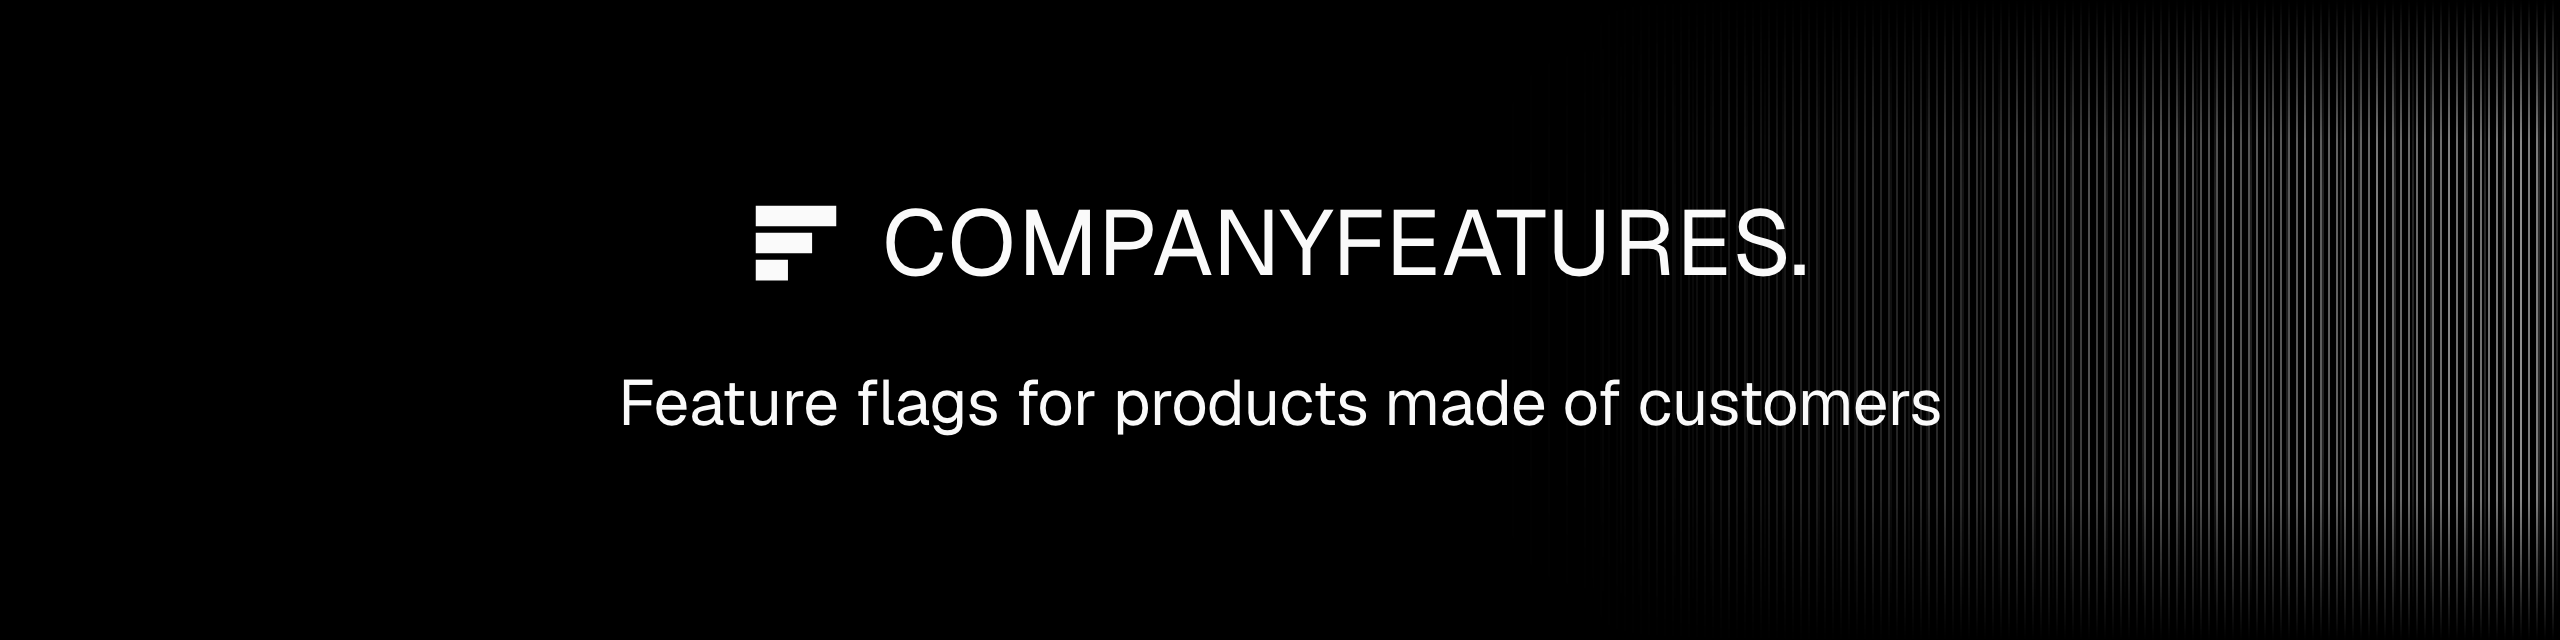
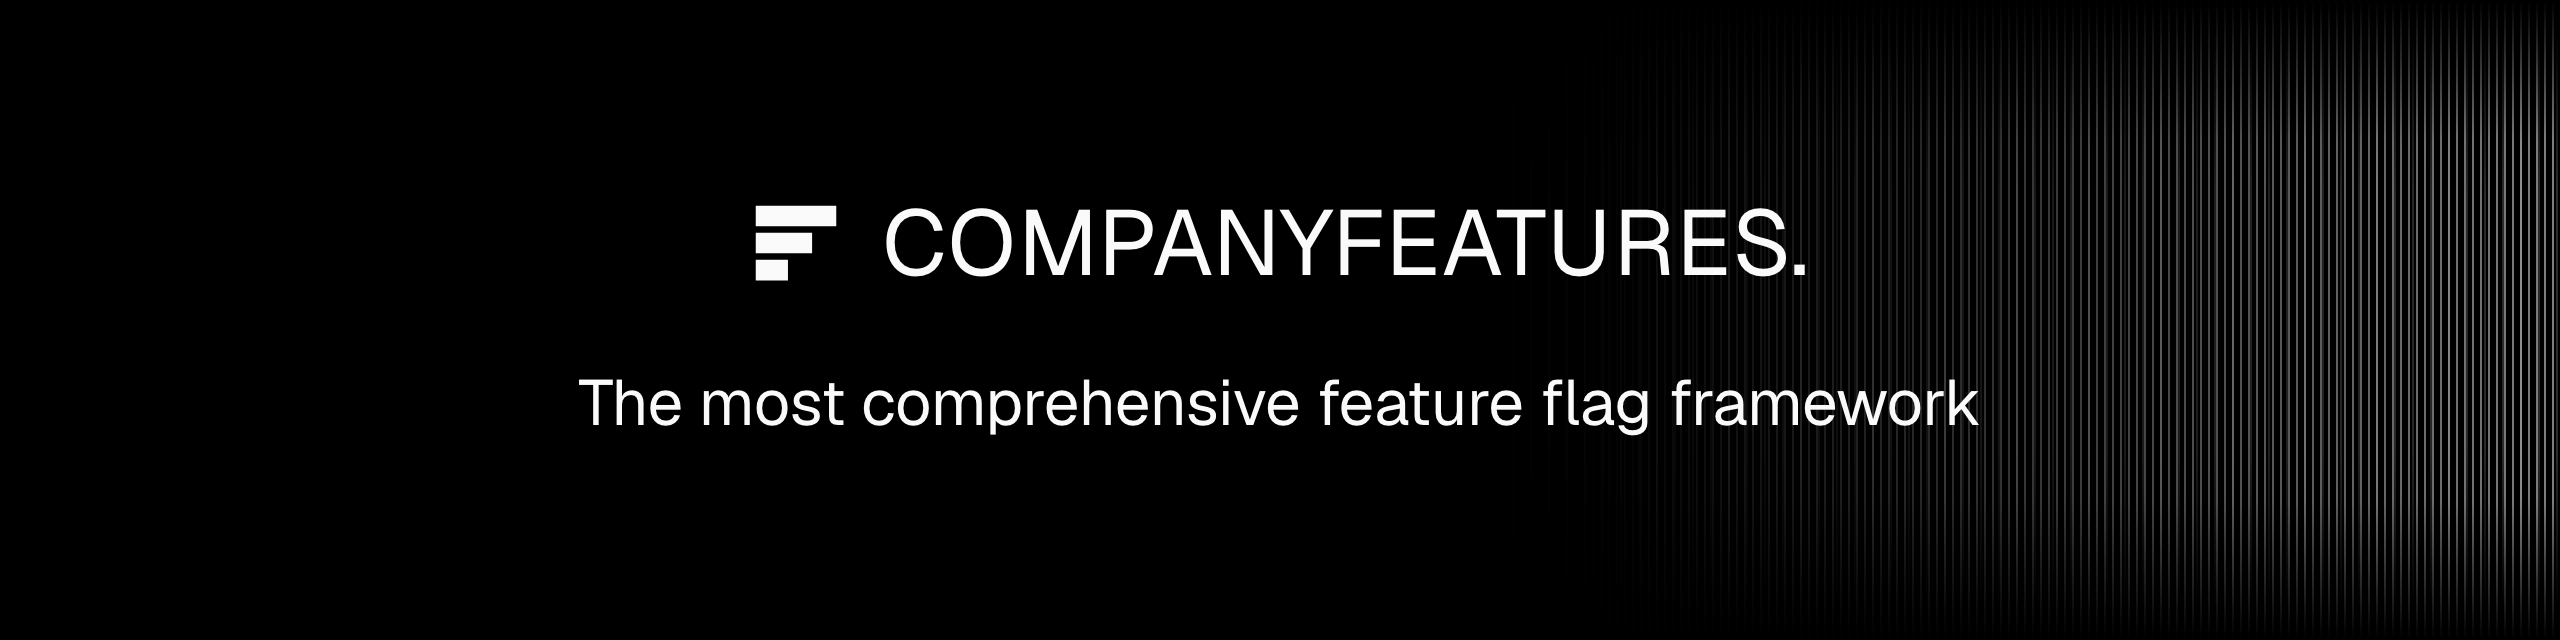
Slogan: "The most comprehensive feature flag framework"

Changed region(s): [[0.2188, 0.5938, 0.7812, 0.6875]]

diff --git a/docs/.vitepress/theme/Landing.vue b/docs/.vitepress/theme/Landing.vue
@@ -114,7 +114,7 @@ const runIt = [
       </div>
       <div class="hero-body">
         <a class="pill" :href="withBase('/guide/introduction')"><span class="tri">▲</span> Open source <b>| MIT licensed, self-hosted</b> <span>→</span></a>
-        <h1>Feature flags for products made of customers</h1>
+        <h1>The most comprehensive feature flag framework</h1>
         <div class="actions">
           <a class="btn primary" :href="withBase('/guide/quickstart')">Get Started</a>
           <a class="btn ghost" :href="repo">GitHub<i class="corner tl" /><i class="corner br" /></a>
@@ -131,8 +131,8 @@ const runIt = [
       <section>
         <h2 class="label"><span>README</span></h2>
         <p class="lead">
-          Config that follows <b>your business</b>: served per customer, brand, store or any dimension you define,
-          read with <b>OpenFeature</b>, and run on <b>your own servers</b>, one Node.js server and Postgres.
+          Everything feature flags need in <b>one server</b>: rules and releases, reviewed changes and history, settings
+          per any dimension you define, read with <b>OpenFeature</b>, and run on <b>your own servers</b>.
         </p>
         <div class="code">
           <div class="tabs" role="tablist">

diff --git a/docs/.vitepress/config.ts b/docs/.vitepress/config.ts
@@ -4,7 +4,7 @@ const repo = 'https://github.com/dvir-daniel/companyfeatures';
 
 export default defineConfig({
   title: 'CompanyFeatures',
-  description: 'Open-source feature flags and remote config, served per customer, brand or any dimension you define, from files a CDN caches.',
+  description: 'The most comprehensive feature flag framework: open source, self-hosted, and read with OpenFeature.',
   base: process.env.DOCS_BASE || '/',
   cleanUrls: true,
   appearance: true,

diff --git a/README.md b/README.md
@@ -2,7 +2,7 @@
   <picture>
     <source srcset=".github/assets/banner-dark.png" media="(prefers-color-scheme: dark)">
     <source srcset=".github/assets/banner-light.png" media="(prefers-color-scheme: light)">
-    <img src=".github/assets/banner-light.png" alt="CompanyFeatures: feature flags for products made of customers">
+    <img src=".github/assets/banner-light.png" alt="CompanyFeatures: the most comprehensive feature flag framework">
   </picture>
 </p>
 
@@ -14,7 +14,7 @@
 </p>
 
 <p align="center">
-  Open-source feature flags and remote config for products made of customers.
+  The most comprehensive feature flag framework: open source, self-hosted, and read with OpenFeature.
   <br>
   <a href="https://dvir-daniel.github.io/companyfeatures/"><strong>Learn more »</strong></a>
   <br>
@@ -30,9 +30,9 @@
 
 ## About the project
 
-CompanyFeatures serves feature flags and remote config per customer, brand, store or any dimension you define. Apps
-and backends read them with OpenFeature's own providers, and you run it yourself: one Node.js server, a web console,
-and Postgres.
+CompanyFeatures is everything feature flags and remote config need, in one server you run yourself: rules and %
+rollouts, releases, reviewed changes and a full history, settings for any part of your product, and OpenFeature for
+every app and backend.
 
 <p align="center">
   <img src=".github/assets/console.png" alt="The console: a release flag with an override, settings for one company, and a rule for 10% of devices">
@@ -40,22 +40,21 @@ and Postgres.
 
 ### Why CompanyFeatures?
 
-Most flag tools think in users and segments. If you sell to businesses, your config has a shape of its own: each
-customer needs its own API address, limits or branding; a company's brands should follow it unless they say
-otherwise; and some rules must hold for everyone, whatever a customer's settings say. CompanyFeatures is built around
-that shape.
+Feature flags start simple and grow. Some rules must hold for everyone, whatever else is set. Parts of your product
+need settings of their own. Production changes need a second pair of eyes and a way back. Every app and backend should
+get the same answer. CompanyFeatures covers all of it in one place, and your code reads it through OpenFeature.
 
-- **Your own dimensions.** Serve config per `customer`, per `company` › `brand`, per `region` › `chain` › `store`.
-  You name the levels, up to four; nothing in the product says "tenant".
-- **Settings per entity, rules for everyone.** Any customer, brand or store can have settings of its own on any flag,
+- **Your own dimensions.** Serve config per `region` › `store`, per `team`, per `customer` › `brand`, or whatever
+  your product is made of. You name the levels, up to four.
+- **Settings per entity, rules for everyone.** Any region, store or customer can have settings of its own on any flag,
   inherited down the chain. Locked rules apply to everyone, always. The console traces every answer step by step.
 - **OpenFeature, no SDK of ours.** Apps use OpenFeature's own OFREP providers (web, Android, iOS); backends use OFREP
   or flagd JSON, evaluated in-process. Your flag-reading code stays standard.
 - **Nothing private reaches a device.** An app asks as its own entity, with a token it can't change, and gets its own
-  answers only: no rules, no customer lists, no one else's values.
+  answers only: no rules, no lists of entities, no one else's values.
 - **Reviewed changes.** Production can require an approval for every change, with scheduling, break-glass for on
   call, an append-only history, restore, and side-by-side compare.
-- **Releases and version releases.** Roll a feature out to a few customers, then 1% → 5% → 25% → 50% of devices,
+- **Releases and version releases.** Give early access to a few, then 1% → 5% → 25% → 50% of devices,
   then everyone, then clean it up; or move devices from version 1.0.0 to 1.0.1 the same way, with rollback.
 - **Your sign-in.** Email and password, Google, GitHub or Microsoft, and single sign-on with SAML or OIDC, through
   [Better Auth](https://www.better-auth.com).

diff --git a/docs/guide/introduction.md b/docs/guide/introduction.md
@@ -1,19 +1,22 @@
 # Introduction
 
-CompanyFeatures is an open-source service for **feature flags and remote config** in products that serve many
-business customers. It decides what every app and backend gets, per customer (or per company and its brands, per
-store, whatever your business is made of), and hands each app a small file of values that a CDN caches.
+CompanyFeatures is the most comprehensive open-source framework for **feature flags and remote config**. It decides
+what every app and backend gets: rules for everyone, % rollouts and releases, settings for any part of your product
+(a region, a store, a team, a customer: you define the dimensions), with reviewed changes and a full history. Apps and
+backends read it through OpenFeature.
 
 You run it yourself: one Node.js server with a web console, and Postgres for the data.
 
 ## Who it's for
 
-- **B2B products** where customers need their own API address, limits, branding or features, without
-  a fork of your code or a config file per customer.
-- **Products with brands, franchises or stores** where a setting should apply to a company and everything under it,
-  unless one of them has its own.
-- **Teams with many devices** that don't want a bill that grows with every request, or rules and customer lists sent to
-  every phone.
+- **Teams that want flags they own**, run on their own servers and read with OpenFeature in every app and backend,
+  so the code that reads flags stays standard.
+- **Products whose config differs by part**: per region, store, team or customer, where a setting should follow a
+  chain (a region's stores, a company's brands) unless one of them has its own.
+- **Teams that need change control**: approvals in production, scheduled changes, break-glass for on call, an
+  append-only history and restore.
+- **Products with many devices** that don't want rules or lists of entities sent to every phone, or a bill that
+  grows with every request.
 
 ## How it works
 

diff --git a/docs/guide/comparison.md b/docs/guide/comparison.md
@@ -1,14 +1,14 @@
 # Compared with others
 
 Feature-flag tools mostly differ in two things: **who decides the answer** (a service per request, the SDK with the
-rules, or a file per audience) and **what the model knows about your customers**. Here is where CompanyFeatures sits,
+rules, or a file per audience) and **what the model knows about how your product is organized**. Here is where CompanyFeatures sits,
 so you can tell quickly whether it fits.
 
 ## When CompanyFeatures fits
 
-- **You sell to businesses, and each needs its own settings.** Customers, brands, stores and regions are part of the
-  model: each entity has settings of its own on any flag, inherited down your chain, with locked rules on top.
-  Elsewhere this is usually a segment or a targeting rule per customer, which gets long at a few thousand customers.
+- **Parts of your product need their own settings.** Regions, stores, teams or customers are part of the model: each
+  entity has settings of its own on any flag, inherited down your chain, with locked rules on top. Elsewhere this is
+  usually a segment or a targeting rule per part, which gets long at a few thousand of them.
 - **You use OpenFeature.** Apps and backends read flags through OpenFeature's own providers (OFREP, flagd); there is
   no SDK of ours to adopt or to leave.
 - **You have very many devices.** Besides OFREP, each entity's values are one file your CDN caches, built once per

diff --git a/docs/index.md b/docs/index.md
@@ -3,7 +3,7 @@ layout: page
 sidebar: false
 aside: false
 title: CompanyFeatures
-titleTemplate: Feature flags for products made of customers
+titleTemplate: The most comprehensive feature flag framework
 ---
 
 <Landing />
